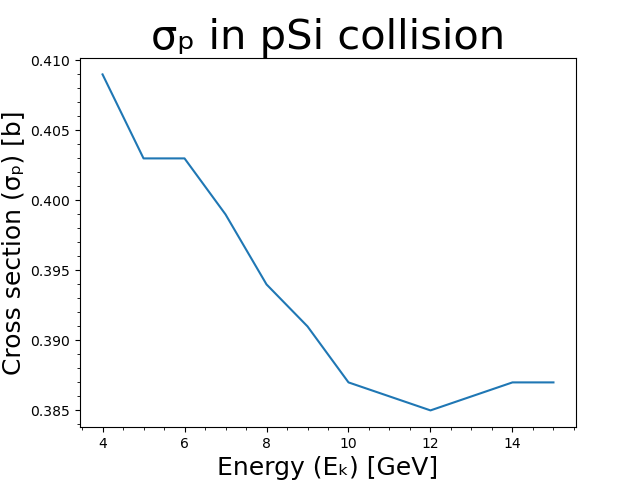
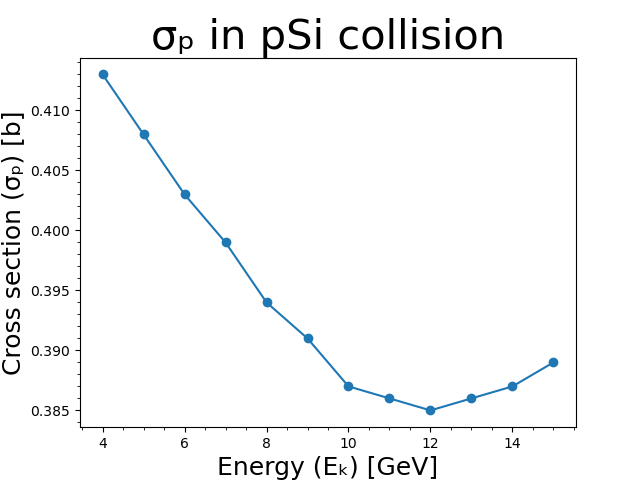
Better plots

diff --git a/data/Si/through.py b/data/Si/through.py
@@ -53,23 +53,23 @@ counts = {
     #     25: [59745, 0],
     #     30: [53576, 0],
     # },
-    # Minimal energy:3600.
+    # Minimal energy:3640.
     4: {
-        5: [90338, 0],
-        10: [81568, 0],
-        15: [73606, 0],
-        20: [66414, 0],
-        25: [59965, 0],
-        30: [53868, 0],
+        5: [90253, 0],
+        10: [81439, 0],
+        15: [73419, 0],
+        20: [66169, 0],
+        25: [59632, 0],
+        30: [53502, 0],
     },
-    # Minimal energy:4500.
+    # Minimal energy:4550.
     5: {
-        5: [90547, 0],
-        10: [81849, 0],
-        15: [73949, 0],
-        20: [66943, 0],
-        25: [60198, 0],
-        30: [54124, 0],
+        5: [90464, 0],
+        10: [81659, 0],
+        15: [73684, 0],
+        20: [66600, 0],
+        25: [59837, 0],
+        30: [53659, 0],
     },
     # Minimal energy:5400.
     6: {
@@ -152,13 +152,13 @@ counts = {
         25: [61798, 0],
         30: [55862, 0],
     },
-    # Minimal energy:13500.
+    # Minimal energy:13650.
     15: {
-        5: [90781, 0],
-        10: [82396, 0],
-        15: [74803, 0],
-        20: [68023, 0],
-        25: [61828, 0],
-        30: [55936, 0],
+        5: [90738, 0],
+        10: [82311, 0],
+        15: [74697, 0],
+        20: [67885, 0],
+        25: [61685, 0],
+        30: [55775, 0],
     },
 }

diff --git a/data/crossSections.py b/data/crossSections.py
@@ -4,8 +4,12 @@ from math import *
 import matplotlib.pyplot as plt
 import sys
 
-# import matplotlib
-# matplotlib.rcParams["font.family"] = "stix"
+"""'
+for x in {Bi,Fe,Pb,Si,Sn,W}
+do
+./crossSections.py $x
+done
+"""
 
 d = 11.34  # density g/cm3
 M = 207.217  # molar mass g/mol
@@ -57,6 +61,7 @@ for en in counts.keys():
 fig = plt.figure()
 ax = fig.add_subplot()
 ax.plot(counts.keys(), crossSections)
+ax.scatter(counts.keys(), crossSections)
 ax.set_title("σ\u209A in p" + element + " collision", size=30)
 ax.set_xlabel("Energy (E\u2096) [GeV]", size=18)
 ax.set_ylabel("Cross section (σ\u209A) [b]", size=18)

diff --git a/data/Bi/through.py b/data/Bi/through.py
@@ -71,14 +71,14 @@ counts = {
         25: [28550, 0],
         30: [22101, 0],
     },
-    # Minimal energy:5400.
+    # Minimal energy:5340.
     6: {
-        5: [78154, 0],
-        10: [61126, 0],
-        15: [47369, 0],
-        20: [36881, 0],
-        25: [28585, 0],
-        30: [22115, 0],
+        5: [78265, 0],
+        10: [61323, 0],
+        15: [47599, 0],
+        20: [37138, 0],
+        25: [28849, 0],
+        30: [22400, 0],
     },
     # Minimal energy:6300.
     7: {

diff --git a/data/Sn/through.py b/data/Sn/through.py
@@ -62,14 +62,14 @@ counts = {
         25: [33278, 0],
         30: [26511, 0],
     },
-    # Minimal energy:4500.
+    # Minimal energy:4550.
     5: {
-        5: [80807, 0],
-        10: [65448, 0],
-        15: [52592, 0],
-        20: [42322, 0],
-        25: [33984, 0],
-        30: [27243, 0],
+        5: [80718, 0],
+        10: [65252, 0],
+        15: [52357, 0],
+        20: [42021, 0],
+        25: [33666, 0],
+        30: [26867, 0],
     },
     # Minimal energy:5400.
     6: {
